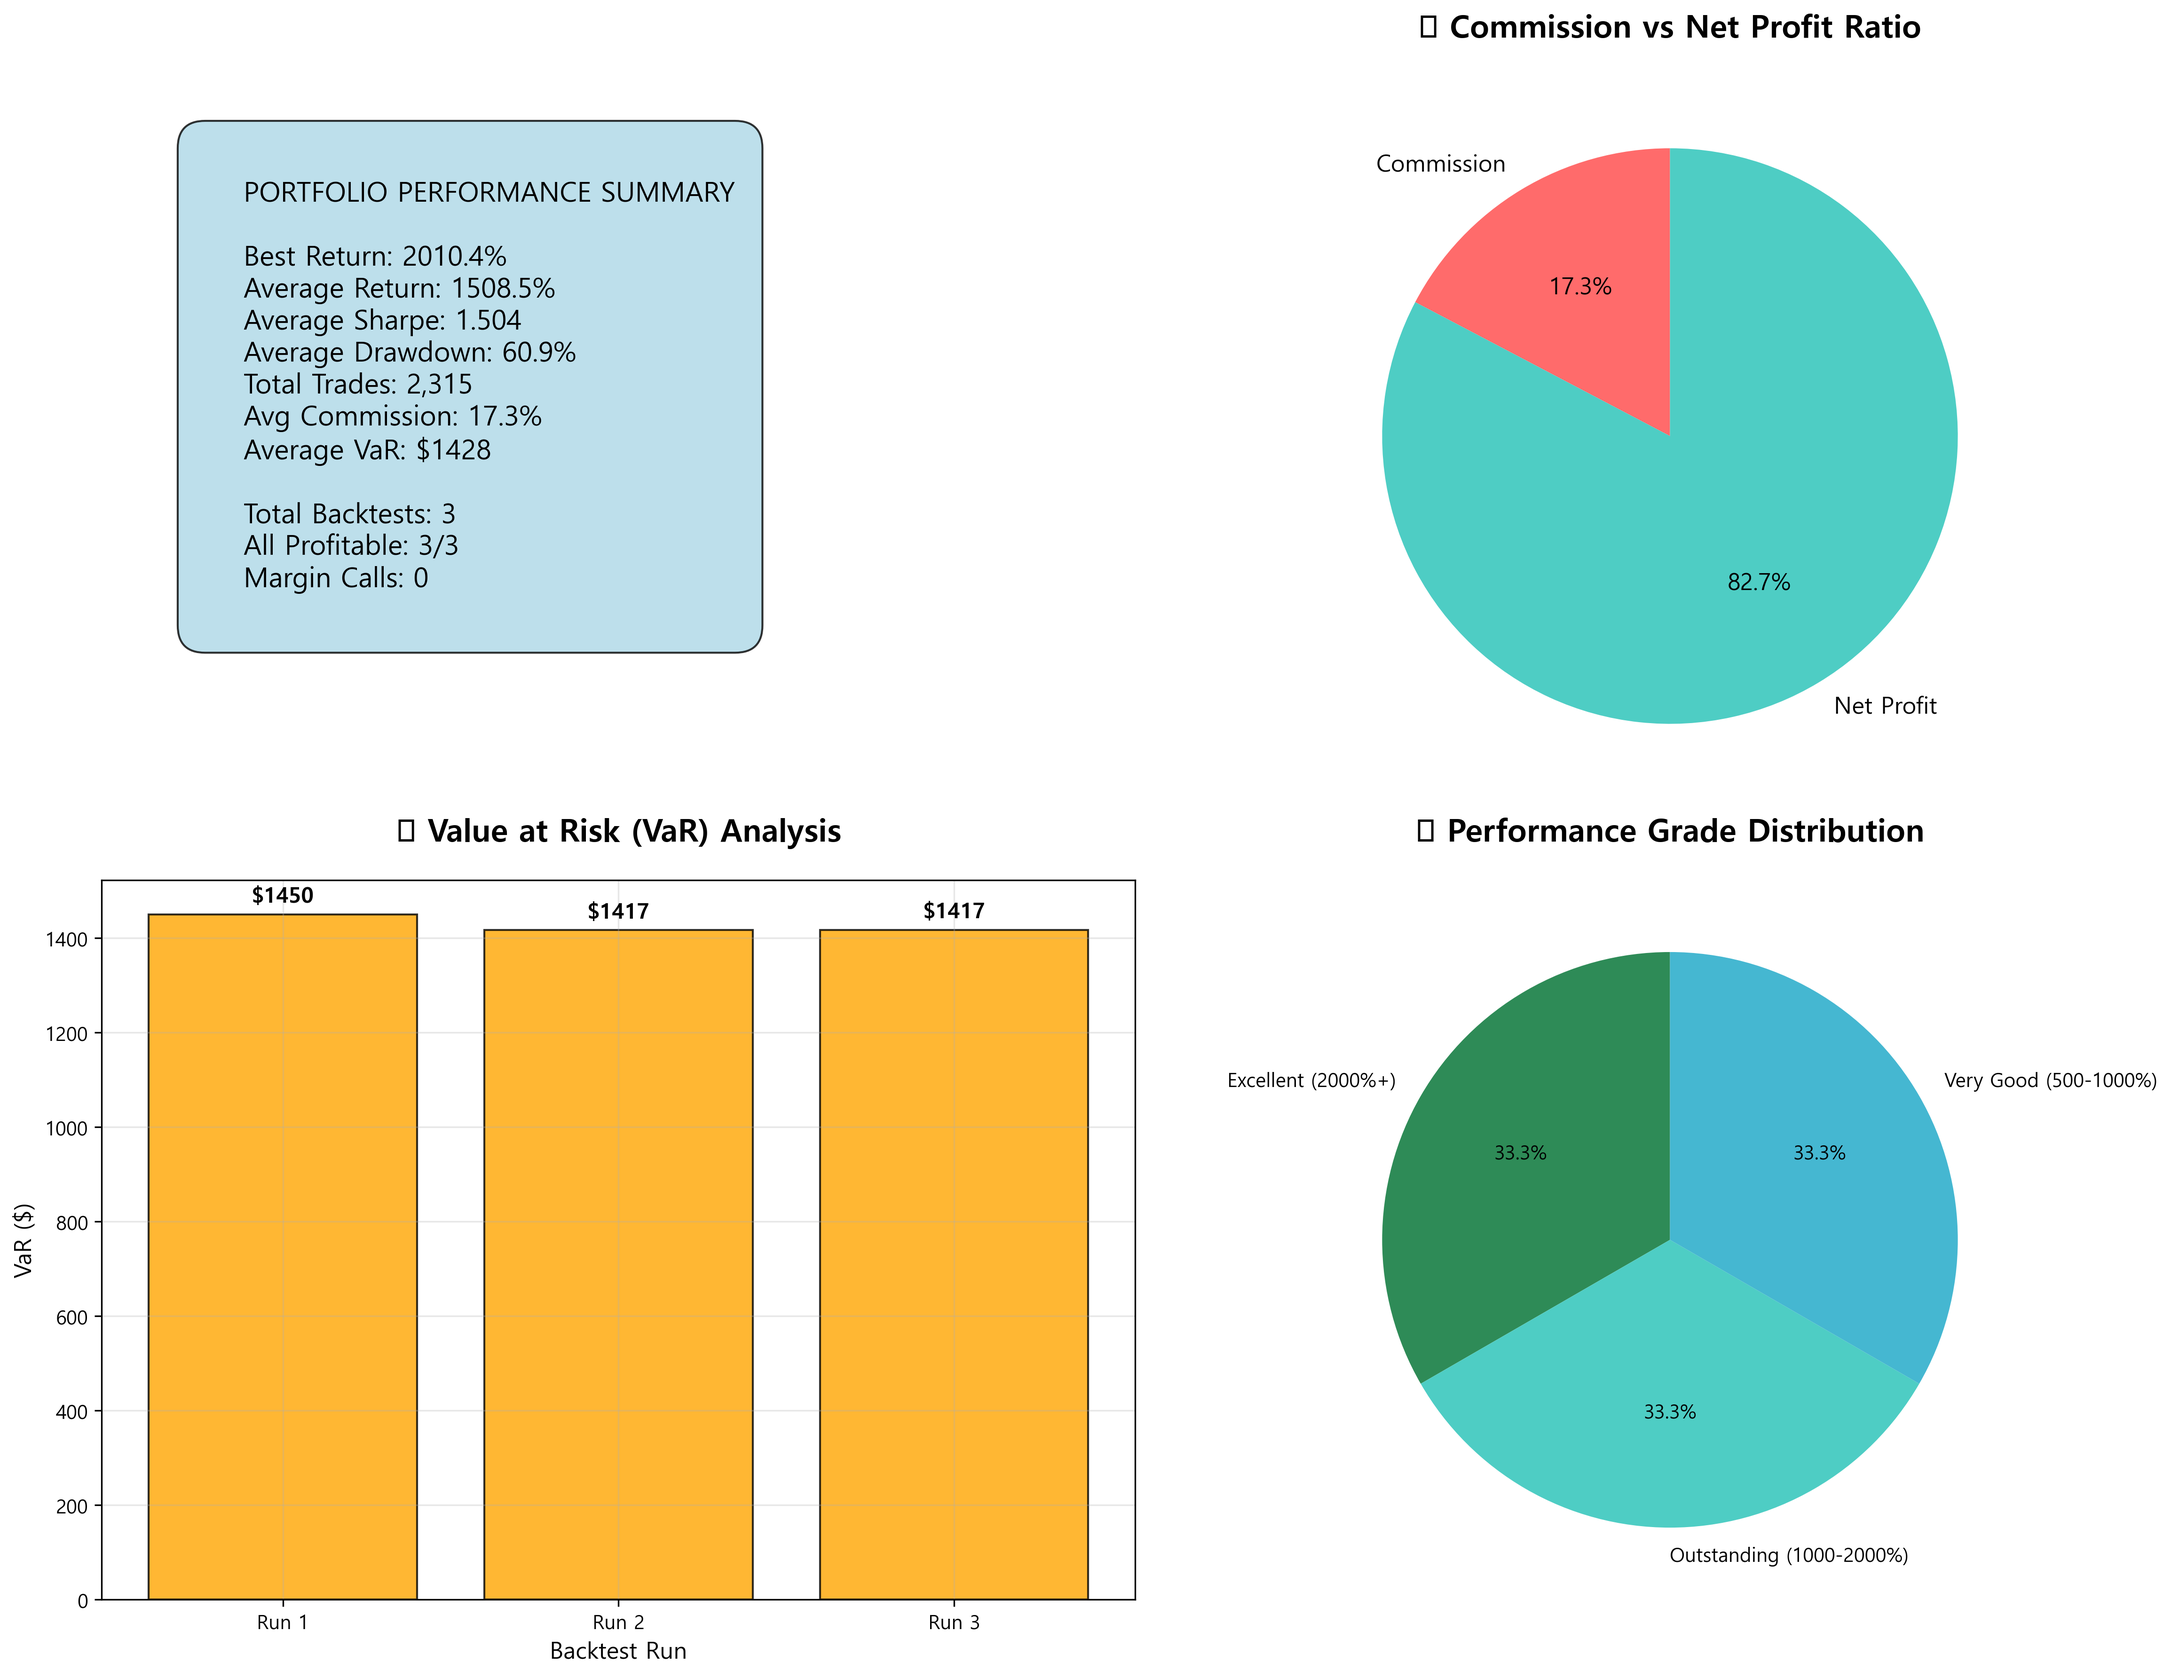
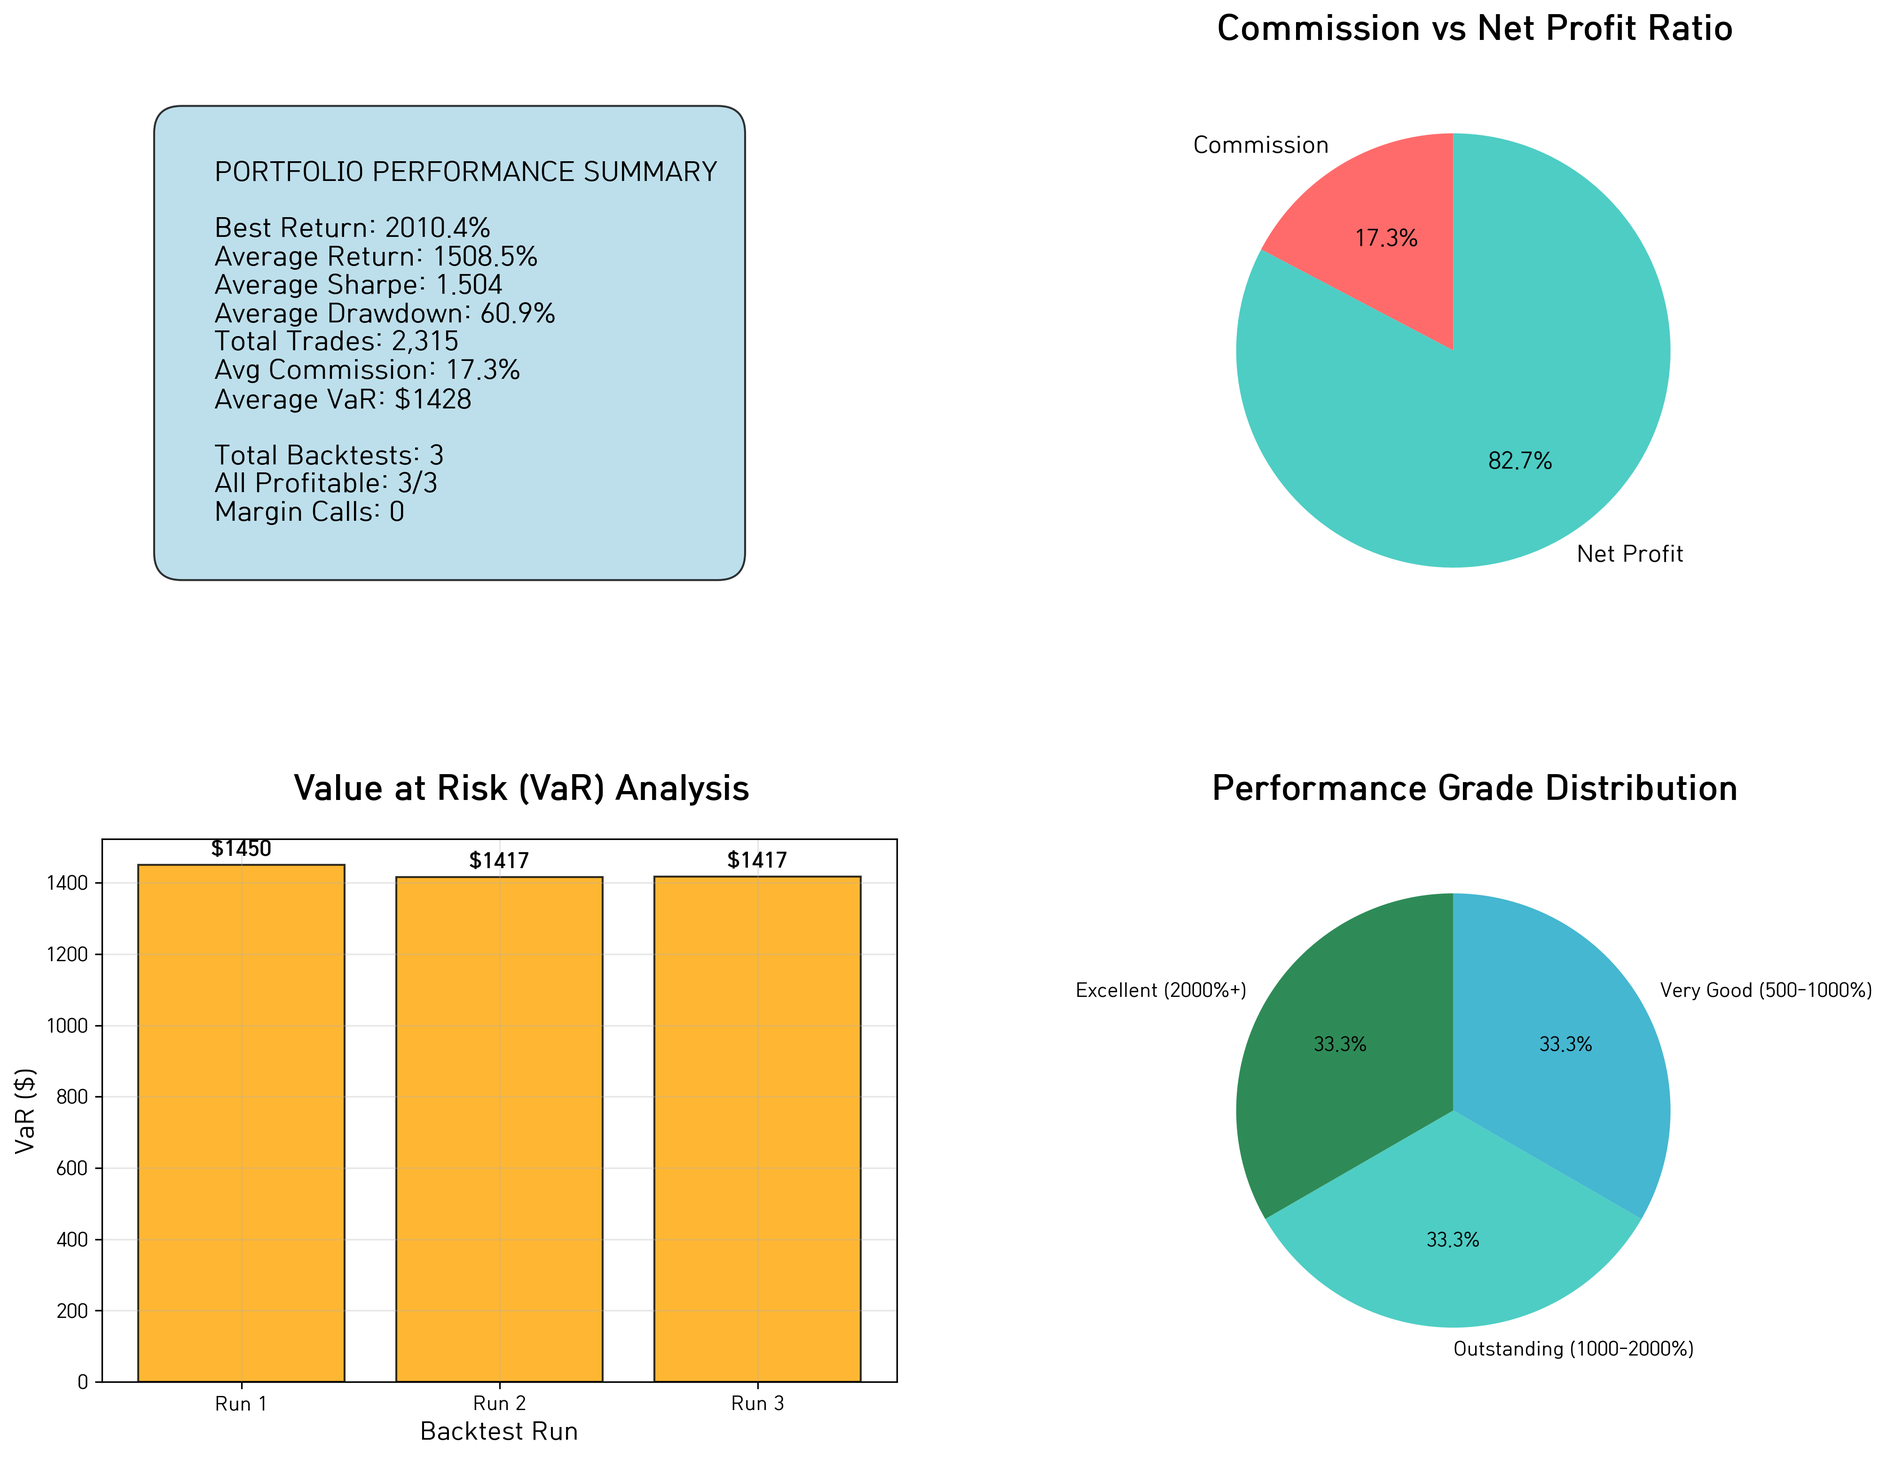
graph update

diff --git a/btc_martingale_backtest/create_performance_charts.py b/btc_martingale_backtest/create_performance_charts.py
@@ -87,9 +87,9 @@ def create_performance_charts():
     # 차트 1: 수익률 비교
     colors = ['#2E8B57', '#4ECDC4', '#45B7D1']
     bars = ax1.bar(range(len(df)), df['arithmetic_return_pct'], color=colors, alpha=0.8, edgecolor='black', linewidth=1)
-    ax1.set_title('백테스트 수익률 비교', fontsize=16, fontweight='bold', pad=20)
-    ax1.set_xlabel('백테스트 실행', fontsize=12)
-    ax1.set_ylabel('수익률 (%)', fontsize=12)
+    ax1.set_title('백테스트 수익률 비교', fontsize=18, fontweight='bold', pad=20)
+    ax1.set_xlabel('백테스트 실행', fontsize=13, fontweight='normal')
+    ax1.set_ylabel('수익률 (%)', fontsize=13, fontweight='normal')
     ax1.set_xticks(range(len(df)))
     ax1.set_xticklabels([f'Run {i+1}\n(Leverage {lev}x)' for i, lev in enumerate(df['leverage'])])
     ax1.grid(True, alpha=0.3)
@@ -103,9 +103,9 @@ def create_performance_charts():
     # 차트 2: 샤프 비율 vs 수익률
     scatter = ax2.scatter(df['sharpe_ratio'], df['arithmetic_return_pct'], 
                          c=df['arithmetic_return_pct'], cmap='RdYlGn', s=200, alpha=0.8, edgecolors='black')
-    ax2.set_title('샤프 비율 vs 수익률 비교', fontsize=16, fontweight='bold', pad=20)
-    ax2.set_xlabel('샤프 비율', fontsize=12)
-    ax2.set_ylabel('수익률 (%)', fontsize=12)
+    ax2.set_title('샤프 비율 vs 수익률 비교', fontsize=18, fontweight='bold', pad=20)
+    ax2.set_xlabel('샤프 비율', fontsize=13, fontweight='normal')
+    ax2.set_ylabel('수익률 (%)', fontsize=13, fontweight='normal')
     ax2.grid(True, alpha=0.3)
     
     # 각 점에 레버리지 표시
@@ -116,9 +116,9 @@ def create_performance_charts():
     # 차트 3: 리스크-수익 매트릭스
     risk_return = ax3.scatter(df['max_drawdown_pct'], df['arithmetic_return_pct'], 
                              c=df['sharpe_ratio'], s=200, cmap='viridis', alpha=0.8, edgecolors='black')
-    ax3.set_title('리스크-수익 매트릭스', fontsize=16, fontweight='bold', pad=20)
-    ax3.set_xlabel('MDD (%)', fontsize=12)
-    ax3.set_ylabel('수익률 (%)', fontsize=12)
+    ax3.set_title('리스크-수익 매트릭스', fontsize=18, fontweight='bold', pad=20)
+    ax3.set_xlabel('MDD (%)', fontsize=13, fontweight='normal')
+    ax3.set_ylabel('수익률 (%)', fontsize=13, fontweight='normal')
     ax3.grid(True, alpha=0.3)
     
     # 각 점에 레버리지 표시
@@ -128,9 +128,9 @@ def create_performance_charts():
     
     # 차트 4: 레버리지별 성과
     ax4.bar(df['leverage'], df['arithmetic_return_pct'], color=colors, alpha=0.8, edgecolor='black', linewidth=1)
-    ax4.set_title('레버리지별 성과', fontsize=16, fontweight='bold', pad=20)
-    ax4.set_xlabel('레버리지', fontsize=12)
-    ax4.set_ylabel('수익률 (%)', fontsize=12)
+    ax4.set_title('레버리지별 성과', fontsize=18, fontweight='bold', pad=20)
+    ax4.set_xlabel('레버리지', fontsize=13, fontweight='normal')
+    ax4.set_ylabel('수익률 (%)', fontsize=13, fontweight='normal')
     ax4.grid(True, alpha=0.3)
     
     # 수익률 값 표시
@@ -138,7 +138,7 @@ def create_performance_charts():
         ax4.text(lev, ret + max(df['arithmetic_return_pct'])*0.02,
                 f'{ret:.1f}%', ha='center', va='bottom', fontweight='bold', fontsize=11)
     
-    plt.tight_layout()
+    plt.subplots_adjust(hspace=0.4)  # 상하 간격을 늘림 (기본값 0.2에서 0.4로)
     plt.savefig('performance_charts.png', dpi=300, bbox_inches='tight', facecolor='white')
     print("성과 차트가 저장되었습니다: performance_charts.png")
     
@@ -184,14 +184,14 @@ def create_performance_charts():
                                       labels=['Commission', 'Net Profit'], 
                                       colors=['#FF6B6B', '#4ECDC4'], 
                                       autopct='%1.1f%%', startangle=90, textprops={'fontsize': 12})
-    ax2.set_title('💸 Commission vs Net Profit Ratio', fontsize=16, fontweight='bold', pad=20)
+    ax2.set_title('💸 Commission vs Net Profit Ratio', fontsize=18, fontweight='bold', pad=20)
     
     # 대시보드 3: VaR 분석
     var_values = df['avg_var_dollar'].values
     bars = ax3.bar(range(len(var_values)), var_values, color='orange', alpha=0.8, edgecolor='black')
-    ax3.set_title('📊 Value at Risk (VaR) Analysis', fontsize=16, fontweight='bold', pad=20)
-    ax3.set_xlabel('Backtest Run', fontsize=12)
-    ax3.set_ylabel('VaR ($)', fontsize=12)
+    ax3.set_title('📊 Value at Risk (VaR) Analysis', fontsize=18, fontweight='bold', pad=20)
+    ax3.set_xlabel('Backtest Run', fontsize=13, fontweight='normal')
+    ax3.set_ylabel('VaR ($)', fontsize=13, fontweight='normal')
     ax3.set_xticks(range(len(var_values)))
     ax3.set_xticklabels([f'Run {i+1}' for i in range(len(var_values))])
     ax3.grid(True, alpha=0.3)
@@ -220,9 +220,9 @@ def create_performance_charts():
     wedges, texts, autotexts = ax4.pie(grade_counts.values, labels=grade_counts.index, 
                                        colors=colors_pie[:len(grade_counts)], autopct='%1.1f%%', 
                                        startangle=90, textprops={'fontsize': 10})
-    ax4.set_title('🏆 Performance Grade Distribution', fontsize=16, fontweight='bold', pad=20)
+    ax4.set_title('🏆 Performance Grade Distribution', fontsize=18, fontweight='bold', pad=20)
     
-    plt.tight_layout()
+    plt.subplots_adjust(hspace=0.4)  # 상하 간격을 늘림 (기본값 0.2에서 0.4로)
     plt.savefig('performance_dashboard.png', dpi=300, bbox_inches='tight', facecolor='white')
     print("성과 대시보드가 저장되었습니다: performance_dashboard.png")
     
@@ -232,9 +232,9 @@ def create_performance_charts():
     # 거래 횟수 분석
     trades = df['total_trades'].values
     bars = ax1.bar(range(len(trades)), trades, color=colors, alpha=0.8, edgecolor='black')
-    ax1.set_title('📈 Trading Frequency Analysis', fontsize=16, fontweight='bold', pad=20)
-    ax1.set_xlabel('Backtest Run', fontsize=12)
-    ax1.set_ylabel('Total Trades', fontsize=12)
+    ax1.set_title('📈 Trading Frequency Analysis', fontsize=18, fontweight='bold', pad=20)
+    ax1.set_xlabel('Backtest Run', fontsize=13, fontweight='normal')
+    ax1.set_ylabel('Total Trades', fontsize=13, fontweight='normal')
     ax1.set_xticks(range(len(trades)))
     ax1.set_xticklabels([f'Run {i+1}\n(Leverage {lev}x)' for i, lev in enumerate(df['leverage'])])
     ax1.grid(True, alpha=0.3)
@@ -249,8 +249,8 @@ def create_performance_charts():
     ax2.plot(df['leverage'], df['sharpe_ratio'], marker='o', linewidth=3, markersize=10, 
              color='#2E8B57', markerfacecolor='white', markeredgewidth=2, markeredgecolor='#2E8B57')
     ax2.set_title('⚡ Sharpe Ratio by Leverage', fontsize=16, fontweight='bold', pad=20)
-    ax2.set_xlabel('Leverage', fontsize=12)
-    ax2.set_ylabel('Sharpe Ratio', fontsize=12)
+    ax2.set_xlabel('Leverage', fontsize=14, fontweight='bold')
+    ax2.set_ylabel('Sharpe Ratio', fontsize=14, fontweight='bold')
     ax2.grid(True, alpha=0.3)
     
     # 샤프 비율 값 표시
